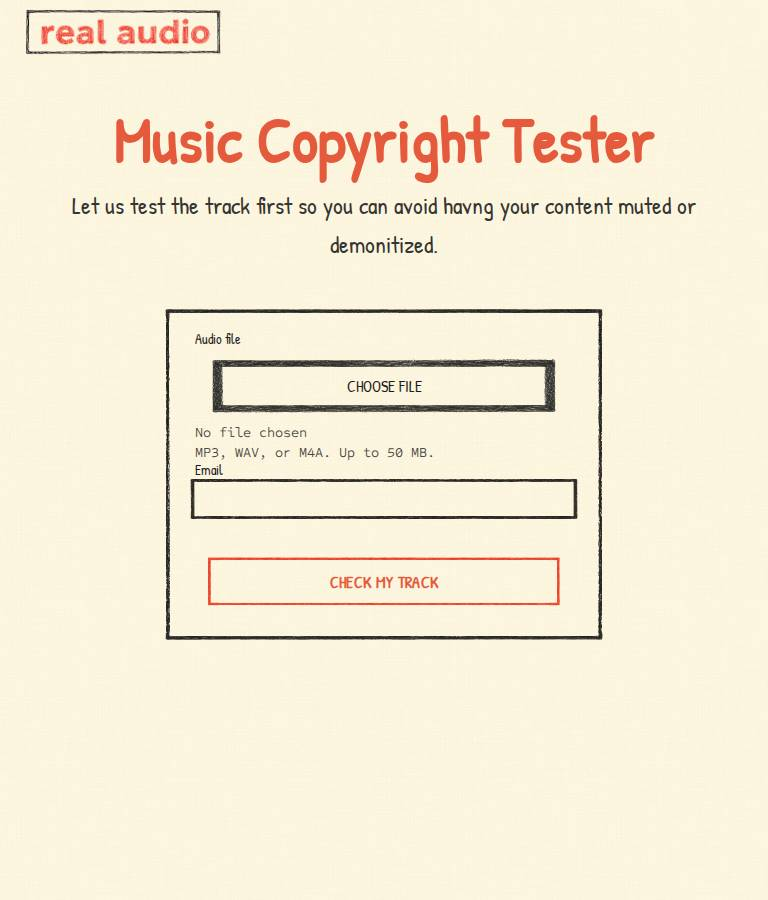
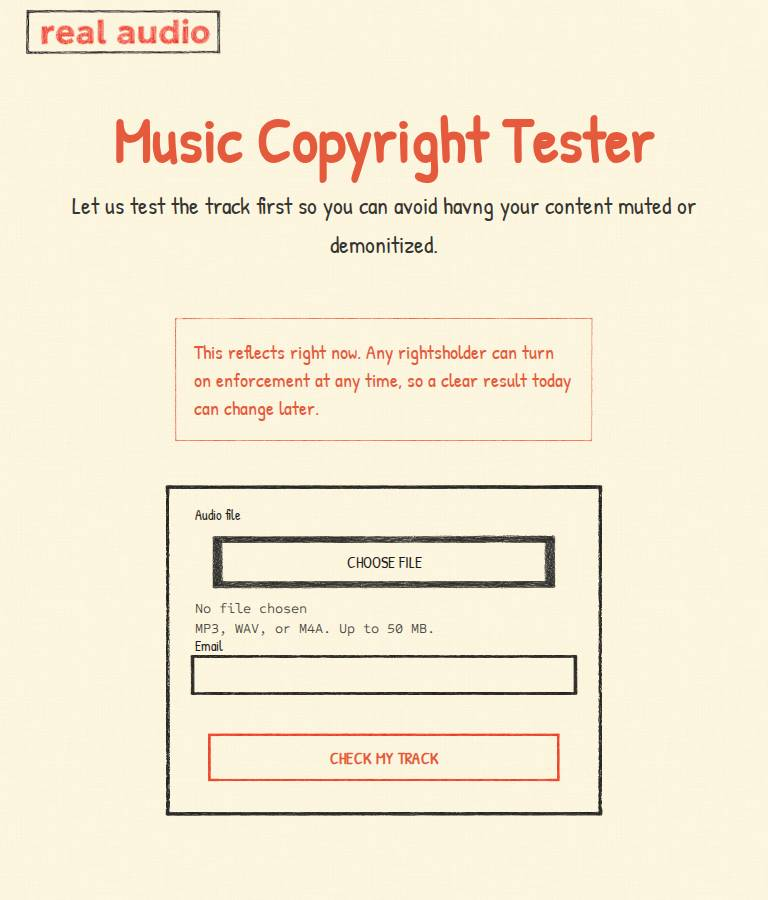
MS-002 fix: permanent warning on the landing page (DW4)
Add the result page's warning box (box-sketched-light-red, same copy:
"This reflects right now. Any rightsholder can turn on enforcement at any
time...") to the landing, between the subtitle and the form, always
visible. Result page warning unchanged. Headline, Notes subtitle (typos
kept) and CHOOSE FILE button untouched. E2E asserts the landing warning,
including after inline errors; config + E2E 33/33 x2; screenshots refreshed.

Claude-Session: https://claude.ai/code/session_016WeDHqeepJ6MGFxNhLbK6B

Changed region(s): [[0.2188, 0.3422, 0.7812, 0.7778], [0.25, 0.8089, 0.75, 0.8711], [0.2188, 0.9022, 0.7812, 0.9333]]

diff --git a/clearance-check/public/index.html b/clearance-check/public/index.html
@@ -28,6 +28,10 @@
           <h1 class="text-h1 headline">Music Copyright Tester</h1>
           <p class="lead">Let us test the track first so you can avoid havng your content muted or demonitized.</p>
 
+          <div class="box-sketched-light-red landing-warning" role="note">
+            <p class="warning">This reflects right now. Any rightsholder can turn on enforcement at any time, so a clear result today can change later.</p>
+          </div>
+
           <form id="check-form" class="my-login-modal check-form" novalidate>
             <div class="field">
               <span class="field-label" id="file-label">Audio file</span>

diff --git a/clearance-check/public/styles.css b/clearance-check/public/styles.css
@@ -389,6 +389,8 @@ h1, h2, h3, p { margin: 0; }
 .verdict[data-flagged="true"] { color: var(--color-red); }
 @media (min-width: 768px) { .verdict { font-size: 40px; } }
 .warning { font-size: 20px; line-height: 1.4; color: var(--color-red); }
+/* Landing: same warning box as the result page, form width, above the form. */
+.landing-warning { max-width: 448px; margin: 0 auto 24px; }
 .muted { color: rgba(26, 26, 26, 0.8); }
 .center { text-align: center; }
 [hidden] { display: none !important; }
